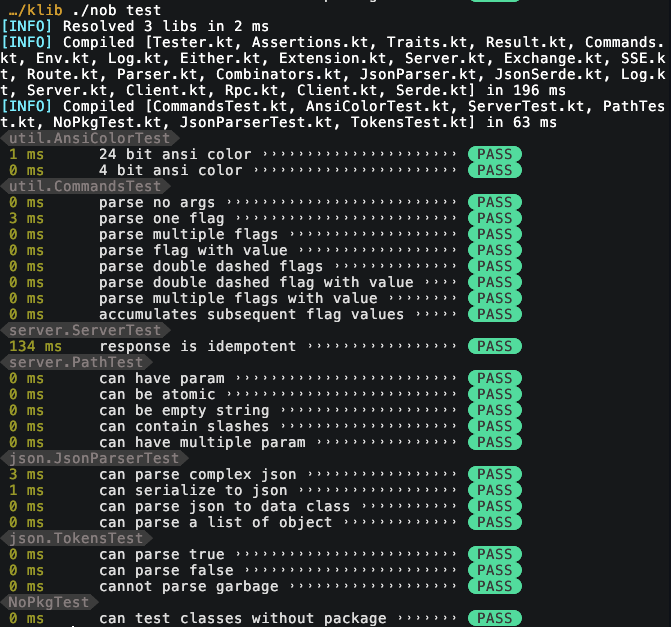
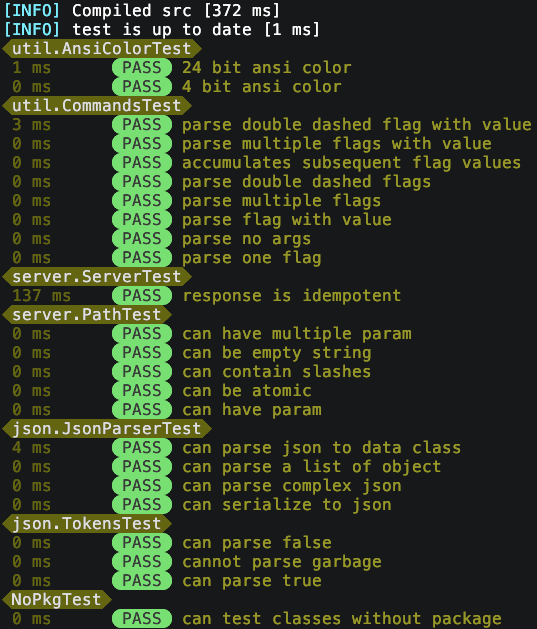
make test-colors prettier

diff --git a/src/test/Tester.kt b/src/test/Tester.kt
@@ -76,12 +76,12 @@ data class TestResult(
         false -> "".text(Color.RED) + "FAIL".bg(Color.RED).text(Color.GRAY) + "".text(Color.RED)
     }
 
-    private fun time(): String = "${time/1_000_000} ms".padEnd(9, ' ').text(Color.YELLOW)
-    private fun name(): String = "$name ".padEnd(40, '˒').text(Color.WHITE)
+    private fun time(): String = "${time/1_000_000} ms".padEnd(9, ' ').text(Color.DARK_YELLOW)
+    private fun name(): String = "$name ".text(Color.YELLOW)
 
     override fun toString(): String {
         return buildString {
-            append(" ${time()} ${name()} ${status()}")
+            append(" ${time()} ${status()} ${name()}")
             if (!success) {
                 if (msg != null) append("\n".padEnd(12, ' ') + msg.text(Color.LIGHT_GRAY))
                 if (loc != null) append("\n".padEnd(12, ' ') + loc.text(Color.LIGHT_GRAY))
@@ -154,7 +154,7 @@ object ClassLoader {
             }
             .filter { (_, clazz) -> clazz.hasTests() }
             .forEach { (classname, clazz) ->
-                println("".text(Color.GRAY) + classname.bg(Color.GRAY).text(Color.LIGHT_GRAY) + "".text(Color.GRAY))
+                println("".text(Color.DARK_YELLOW) + classname.bg(Color.DARK_YELLOW).text(Color.WHITE).padEnd(9, ' ') + "".text(Color.DARK_YELLOW))
                 runTests(classname)
             }
     }
@@ -179,15 +179,15 @@ object ClassLoader {
 
 data class Color(val r: Int, val b: Int, val g: Int) {
     companion object {
-        val BLUE = Color(69, 133, 136)
-        val YELLOW = Color(152, 151, 26)
-        val PURPLE = Color(177, 98, 134)
-        val WHITE = Color(222, 222, 222)
-        val GREEN = Color(0, 222, 155)
-        val DARK_YELLOW = Color(100, 100, 0)
-        val RED = Color(250, 100, 100)
-        val GRAY = Color(60, 60, 60)
-        val LIGHT_GRAY = Color(135, 125, 125)
+        val BLUE = Color(69, 133, 136)        // #458588
+        val YELLOW = Color(152, 151, 26)      // #98971a
+        val PURPLE = Color(177, 98, 134)      // #b16286
+        val WHITE = Color(222, 222, 222)      // #dedede
+        val GREEN = Color(95, 226, 108)       // #5fe26c
+        val DARK_YELLOW = Color(100, 100, 0)  // #646400
+        val RED = Color(250, 100, 100)        // #fa6464
+        val GRAY = Color(60, 60, 60)          // #3c3c3c
+        val LIGHT_GRAY = Color(135, 125, 125) // #877d7d
     }
 }
 
